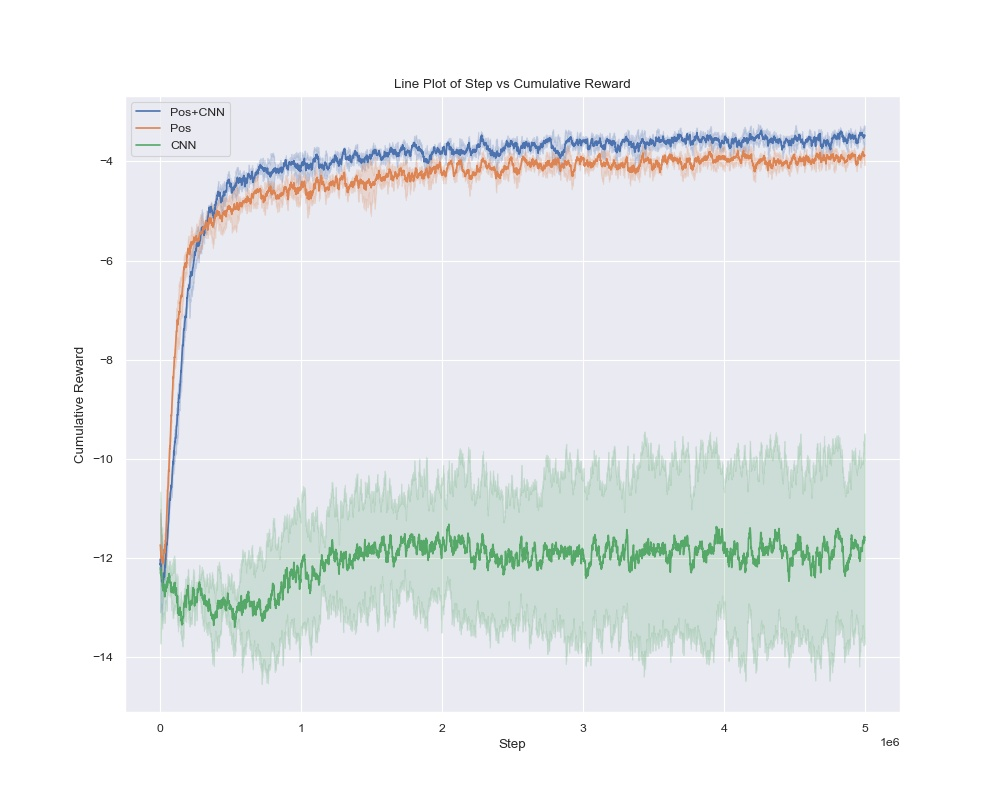
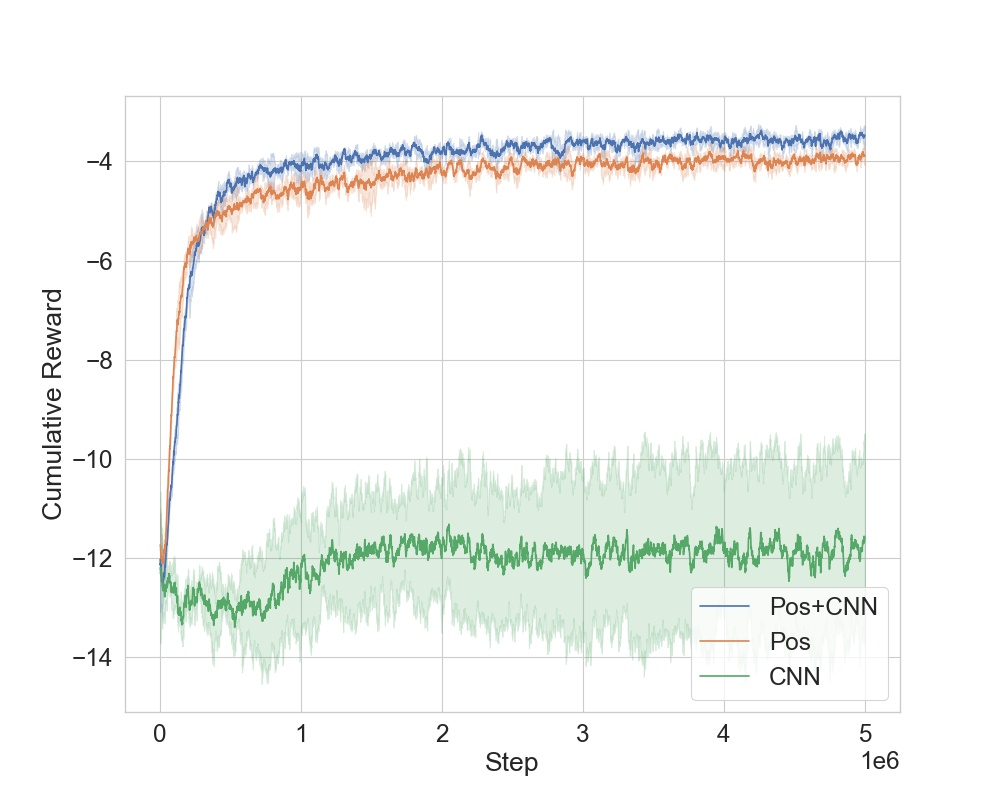
enlarge the font, set whitegrid style

diff --git a/tensorboard_data_04_image.py b/tensorboard_data_04_image.py
@@ -21,7 +21,7 @@ if __name__ == "__main__":
             files.append(os.path.join(root, filename))
 
     # 设置样式
-    sns.set_theme(context='paper', style='darkgrid')
+    sns.set_theme(context='paper', style="whitegrid", font_scale=2)
 
     # Loop through each file found
     for num, file_path in enumerate(files):
@@ -43,7 +43,7 @@ if __name__ == "__main__":
         # Create the corresponding directory structure in the destination directory
         os.makedirs(os.path.join(destination_dir, relative_dir), exist_ok=True)
 
-        sns.lineplot(x="Step", y="Value", data=df, hue="Legend", errorbar=('sd', 1))
+        sns.lineplot(x="Step", y="Value", data=df, hue="Legend", errorbar='sd')
 
         # Define the new filename with '.jpg' extension
         jpg_filename = os.path.splitext(os.path.basename(file_path))[0] + '.jpg'
@@ -51,7 +51,6 @@ if __name__ == "__main__":
         # Add labels and title
         plt.xlabel('Step')
         plt.ylabel('Cumulative Reward')
-        plt.title('Line Plot of Step vs Cumulative Reward')
 
         # Show grid
         plt.grid(True)
